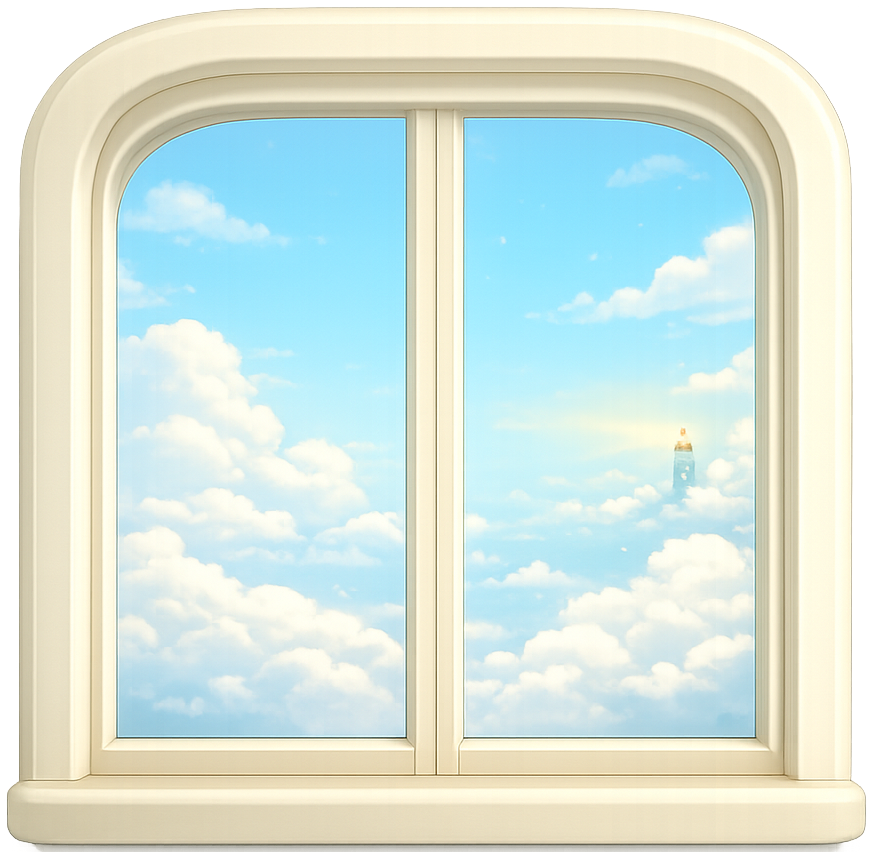
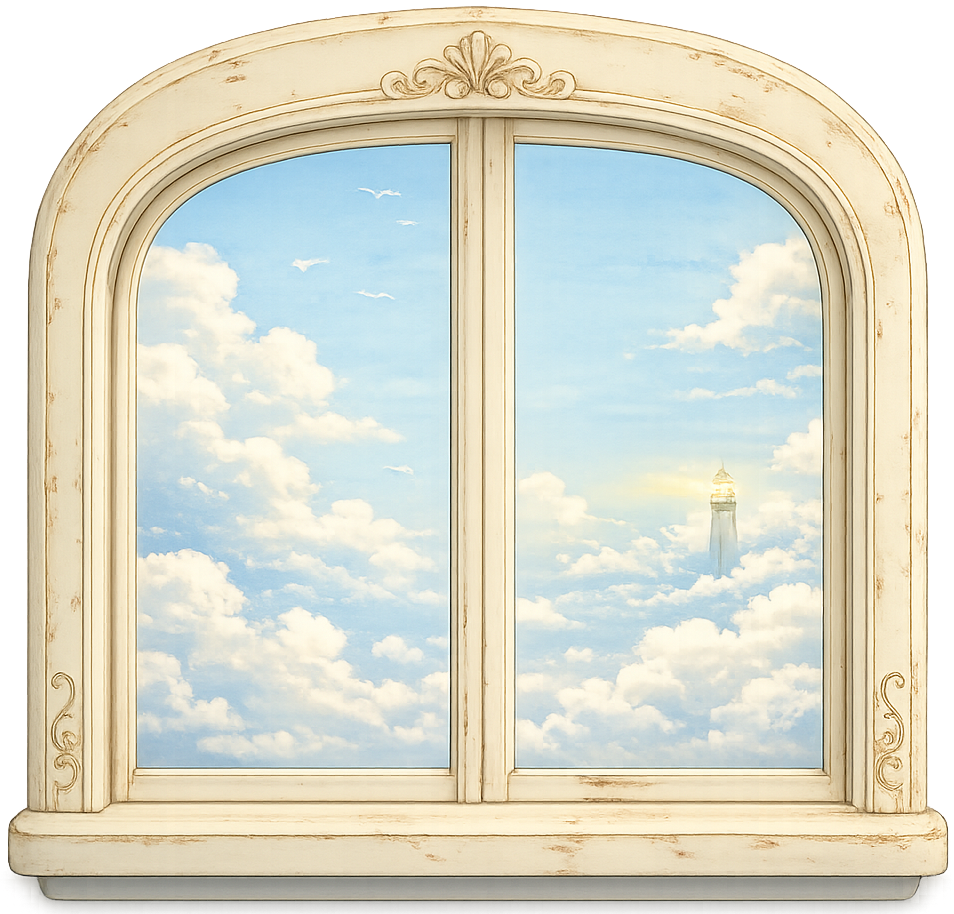
ぽわ窓追加

diff --git a/index.html b/index.html
@@ -3,7 +3,7 @@
 <head>
   <meta charset="UTF-8">
   <meta name="viewport" content="width=device-width, initial-scale=1.0">
-  <title>ぽわ雲事務所 v1</title>
+  <title>ぽわ雲事務所 v1.2</title>
   <style>
     body {
       margin: 0;
@@ -51,23 +51,23 @@
     }
 
     .window {
-      left: 70px;
-      top: 80px;
-      width: 150px;
-      height: 120px;
-      border-radius: 28px;
-      background: linear-gradient(#bfe6ee, #fff8d8);
-      border: 6px solid #ffffff;
-      box-shadow: inset 0 0 18px rgba(255,255,255,.9);
-    }
+    position: absolute;
+    left: 170px;
+    top: 60px;
+    width: 200px;
+    height: auto;
+    z-index: 1;
+    background: transparent;
+    border: none;
+    box-shadow: none;
+  }
 
-    .window::after {
-      content: "☁";
-      font-size: 2.4rem;
-      position: absolute;
-      left: 48px;
-      top: 36px;
-    }
+  .window img {
+    width: 100%;
+    height: 100%;
+    object-fit: contain;
+    pointer-events: none;
+  }
 
     .bookshelf {
       right: 70px;
@@ -77,7 +77,7 @@
       border-radius: 18px;
       background: #d7b98b;
       box-shadow: inset 0 -8px 0 rgba(120,80,40,.15);
-    }
+      }
 
     .bookshelf::before {
       content: "📚";
@@ -85,7 +85,11 @@
       position: absolute;
       left: 45px;
       top: 55px;
-    }
+      }
+
+      .window--image::after {
+      content: none;
+      }
 
     .desk {
       position: absolute;
@@ -312,9 +316,9 @@
       }
 
       .gura {
-        left: 50%;
+        left: 30%;
         top: 220px;
-        transform: translateX(-50%);
+        /* transform: translateX(-50%); */
       }
 
       .desk {
@@ -354,7 +358,9 @@
     <p>気になるところをクリックしてみてね。</p>
 
     <section class="room">
-      <div class="clickable window" data-message="窓の外には、今日のぽわ雲がゆっくり流れています。"></div>
+      <div class="clickable window window--image" data-message="窓の外には、今日のぽわ雲がゆっくり流れています。">
+        <img src="images/powa-window.png" alt="ぽわ雲事務所の窓">
+      </div>
       <div class="clickable bookshelf" data-message="本棚には、灯台活動とぽわ研究の記録がぎっしり並んでいます。"></div>
       <div class="clickable gura gura--image" data-message="幹部：おつぽわ。今日も構造を見ながら、ゆっくり進めよう。">
         <img src="images/gura-chair.png" alt="ぽわ雲事務所の幹部">
